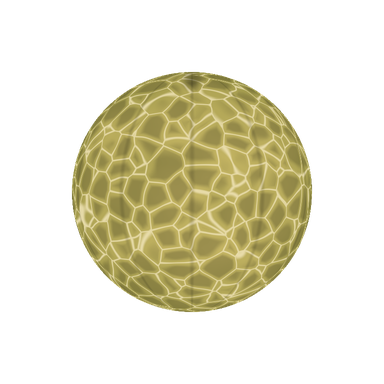
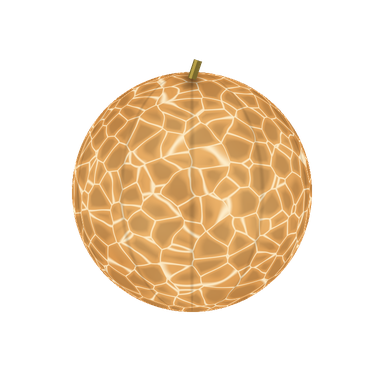
Fruit Fusion: new fruit set with one clear hue per tier
Blueberry, cherry, grape, lemon, orange, green apple, peach, dragon fruit,
pineapple, cantaloupe, watermelon; brighter skins and lighter shading.

Claude-Session: https://claude.ai/code/session_01T2SYHFgPNunqeWjZoHiYMF

Changed region(s): [[0.1875, 0.1562, 0.8125, 0.8125]]

diff --git a/games/fruit_merge/art/gen_art.py b/games/fruit_merge/art/gen_art.py
@@ -171,121 +171,101 @@ def dimple(rgb, cy=-0.93, size=0.16, depth=0.35):
 
 # --- fruits ----------------------------------------------------------------
 
-def berry():  # glossy cherry-like berry
+def blueberry():  # dusty blue with a five-point crown
     n = fbm(U * 3, V * 3, Z * 3, 3, 1)
-    rgb = mix(hexc("#8E0B24"), hexc("#E0233F"), 0.35 + 0.65 * smooth(-0.2, 1.0, -V * 0.5 + Z * 0.8) + (n - 0.5) * 0.4)
+    rgb = mix(hexc("#16257A"), hexc("#4F7FF0"), 0.3 + 0.55 * Z + (-V) * 0.15 + (n - 0.5) * 0.4)
+    bloom = fbm(U * 14, V * 14, Z * 14, 3, 2)
+    rgb = mix(rgb, hexc("#B9CBF5"), smooth(0.4, 0.8, bloom) * 0.35)
+    # crown: a dark star-shaped pit at the top
+    ang = np.arctan2(U, V + 0.9)
+    d = np.sqrt(U ** 2 + (V + 0.9) ** 2)
+    star = 0.13 + 0.06 * np.cos(ang * 5)
+    rgb = lit(rgb, -0.55 * (1 - smooth(star - 0.03, star + 0.02, d)))
+    rgb = mix(rgb, hexc("#2A1F55"), (1 - smooth(0.03, 0.07, d)))
+    return to_canvas(disc_rgba(rgb))
+
+
+def cherry():  # bright glossy red, long stem and a leaf
+    n = fbm(U * 3, V * 3, Z * 3, 3, 3)
+    rgb = mix(hexc("#9A0016"), hexc("#FF2E45"), 0.35 + 0.6 * smooth(-0.2, 1.0, -V * 0.4 + Z * 0.8) + (n - 0.5) * 0.3)
     rgb = dimple(rgb, size=0.22, depth=0.45)
     im = to_canvas(disc_rgba(rgb))
     dr = ImageDraw.Draw(im)
     stem(dr, [(0, -0.9), (0.08, -1.2), (0.22, -1.42), (0.42, -1.55)], 0.07, hexc("#5A7A2A"))
-    leaf(dr, (0.4, -1.52), (0.95, -1.42), 0.18, hexc("#3E9F45"))
+    leaf(dr, (0.4, -1.52), (0.95, -1.42), 0.18, hexc("#3EB04A"))
     return im
 
 
-def strawberry():
-    n = fbm(U * 4, V * 4, Z * 4, 3, 2)
-    rgb = mix(hexc("#B0101F"), hexc("#F0323C"), 0.4 + 0.5 * (-V * 0.4 + Z * 0.6) + (n - 0.5) * 0.5)
-    rgb = mix(rgb, hexc("#F7E3A0"), smooth(0.55, 1.0, -V) * 0.25)  # pale shoulders under the cap
-    # seeds on a staggered lat/long grid, sunk in little pockets
-    rows = (LAT + np.pi / 2) / np.pi * 9
-    ri = np.floor(rows)
-    cols = (LON / np.pi + 1) * 7 + (ri % 2) * 0.5
-    ci = np.floor(cols)
-    du = (cols - ci - 0.5) * 1.1
-    dv = rows - ri - 0.5
-    dd = np.sqrt(du ** 2 + dv ** 2) / np.maximum(Z, 0.25) ** 0.15
-    rgb = lit(rgb, -0.45 * (1 - smooth(0.12, 0.32, dd)))
-    seed = 1 - smooth(0.08, 0.14, np.sqrt((du * 1.3) ** 2 + (dv * 0.9) ** 2))
-    rgb = mix(rgb, hexc("#F6D35B"), seed * (V > -0.7))
-    im = to_canvas(disc_rgba(rgb))
-    dr = ImageDraw.Draw(im)
-    for a in np.linspace(-1.25, 1.25, 7):
-        leaf(dr, (0, -0.86), (np.sin(a) * 0.62, -0.86 + np.cos(a) * 0.2 - 0.12 * (1 - abs(a))), 0.13, hexc("#2F9E44"), False)
-    stem(dr, [(0, -0.86), (0.02, -1.12)], 0.08, hexc("#3C8A3A"))
-    return im
-
-
-def grape():
-    n = fbm(U * 2.5, V * 2.5, Z * 2.5, 4, 3)
-    rgb = mix(hexc("#3D1458"), hexc("#7B3FA8"), 0.35 + 0.5 * Z + (n - 0.5) * 0.6)
-    bloom = fbm(U * 16, V * 16, Z * 16, 3, 4)  # dusty bloom
-    rgb = mix(rgb, hexc("#B9A6D8"), smooth(0.45, 0.8, bloom) * 0.22)
+def grape():  # violet-magenta with a frosty bloom
+    n = fbm(U * 2.5, V * 2.5, Z * 2.5, 4, 4)
+    rgb = mix(hexc("#4A0E63"), hexc("#B145D6"), 0.35 + 0.5 * Z + (n - 0.5) * 0.5)
+    bloom = fbm(U * 16, V * 16, Z * 16, 3, 5)
+    rgb = mix(rgb, hexc("#E2C4F2"), smooth(0.45, 0.8, bloom) * 0.25)
     rgb = dimple(rgb, size=0.12, depth=0.3)
     im = to_canvas(disc_rgba(rgb))
     dr = ImageDraw.Draw(im)
     stem(dr, [(0, -0.92), (-0.04, -1.15), (0.05, -1.3)], 0.09, hexc("#7A5A2E"))
+    leaf(dr, (0.02, -1.2), (0.5, -1.45), 0.15, hexc("#4CAF50"))
     return im
 
 
-def lime():
-    n = fbm(U * 3, V * 3, Z * 3, 3, 5)
-    rgb = mix(hexc("#2F8A2B"), hexc("#7CCB45"), 0.3 + 0.5 * Z + (n - 0.5) * 0.5)
-    pores = fbm(U * 26, V * 26, Z * 26, 2, 6)
-    rgb = lit(rgb, (pores - 0.5) * 0.35)
-    rgb = mix(rgb, hexc("#C8E86A"), smooth(0.6, 0.8, fbm(U * 2, V * 2, Z * 2, 2, 7)) * 0.3)
-    nub = np.sqrt(U ** 2 + (V + 0.95) ** 2)
-    rgb = mix(rgb, hexc("#7A8B3A"), 1 - smooth(0.05, 0.1, nub))
-    return to_canvas(disc_rgba(rgb))
+def lemon():  # sunny yellow, pitted peel, pointed tips
+    n = fbm(U * 3, V * 3, Z * 3, 3, 6)
+    rgb = mix(hexc("#E0A800"), hexc("#FFEB55"), 0.35 + 0.55 * Z + (n - 0.5) * 0.4)
+    pores = fbm(U * 26, V * 26, Z * 26, 2, 7)
+    rgb = lit(rgb, (pores - 0.5) * 0.3)
+    rgb = mix(rgb, hexc("#C9D94A"), smooth(0.65, 0.85, fbm(U * 2, V * 2, Z * 2, 2, 8)) * 0.25)
+    im = to_canvas(disc_rgba(rgb))
+    dr = ImageDraw.Draw(im)
+    for sx in (-1, 1):  # little nubs at both ends
+        pts = [P(sx * 0.94, -0.16), P(sx * 1.1, -0.03), P(sx * 1.1, 0.03), P(sx * 0.94, 0.16)]
+        dr.polygon(pts, fill=(226, 190, 20, 255))
+        dr.polygon([P(sx * 0.95, -0.09), P(sx * 1.07, -0.02), P(sx * 0.95, 0.0)], fill=(255, 232, 90, 255))
+    leaf(dr, (0.0, -0.95), (0.45, -1.3), 0.15, hexc("#3E9F45"))
+    return im
 
 
 def orange():
-    n = fbm(U * 3, V * 3, Z * 3, 3, 8)
-    rgb = mix(hexc("#E05A00"), hexc("#FFA21F"), 0.35 + 0.5 * Z + (n - 0.5) * 0.4)
-    dimples = fbm(U * 22, V * 22, Z * 22, 2, 9)
-    rgb = lit(rgb, (dimples - 0.5) * 0.45)
-    oil = vnoise(U * 40, V * 40, Z * 40, 10)
-    rgb = lit(rgb, -0.25 * smooth(0.82, 0.95, oil))
+    n = fbm(U * 3, V * 3, Z * 3, 3, 9)
+    rgb = mix(hexc("#E85A00"), hexc("#FFAE2E"), 0.35 + 0.5 * Z + (n - 0.5) * 0.4)
+    dimples = fbm(U * 22, V * 22, Z * 22, 2, 10)
+    rgb = lit(rgb, (dimples - 0.5) * 0.4)
+    oil = vnoise(U * 40, V * 40, Z * 40, 11)
+    rgb = lit(rgb, -0.2 * smooth(0.82, 0.95, oil))
     rgb = dimple(rgb, size=0.13, depth=0.35)
     im = to_canvas(disc_rgba(rgb))
     dr = ImageDraw.Draw(im)
     for a in np.linspace(0, 2 * np.pi, 6, endpoint=False):
         leaf(dr, (0, -0.93), (np.cos(a) * 0.1, -0.93 + np.sin(a) * 0.05), 0.05, hexc("#5E8C2A"), False)
     stem(dr, [(0, -0.93), (0.03, -1.07)], 0.06, hexc("#5E8C2A"))
-    leaf(dr, (0.03, -1.03), (0.55, -1.3), 0.16, hexc("#2E8B3E"))
+    leaf(dr, (0.03, -1.03), (0.55, -1.3), 0.16, hexc("#2E9B3E"))
     return im
 
 
-def apple():
-    n = fbm(U * 2.5, V * 2.5, Z * 2.5, 4, 11)
-    streak = fbm(LON * 6, LAT * 0.8, Z * 0.3, 4, 12)  # vertical streaks along meridians
-    red = mix(hexc("#8F0E1A"), hexc("#D7262F"), 0.4 + 0.4 * Z + (streak - 0.5) * 1.4)
-    rgb = mix(red, hexc("#E9A93F"), smooth(0.6, 0.95, n * 0.6 + streak * 0.4 + V * 0.3) * 0.55)
-    dots = vnoise(U * 30, V * 30, Z * 30, 13)
-    rgb = mix(rgb, hexc("#F7E6B0"), smooth(0.9, 0.97, dots) * 0.7)
+def green_apple():  # crisp lime-green with a yellow blush and pale freckles
+    n = fbm(U * 2.5, V * 2.5, Z * 2.5, 4, 12)
+    streak = fbm(LON * 6, LAT * 0.8, Z * 0.3, 4, 13)
+    rgb = mix(hexc("#3E8E12"), hexc("#A8E33E"), 0.4 + 0.45 * Z + (streak - 0.5) * 0.3)
+    rgb = mix(rgb, hexc("#E8E35A"), smooth(0.55, 0.9, n * 0.6 + streak * 0.4 - V * 0.2) * 0.45)
+    dots = vnoise(U * 30, V * 30, Z * 30, 14)
+    rgb = mix(rgb, hexc("#F2F7C8"), smooth(0.9, 0.97, dots) * 0.7)
     rgb = dimple(rgb, size=0.26, depth=0.4)
     im = to_canvas(disc_rgba(rgb))
     dr = ImageDraw.Draw(im)
     stem(dr, [(0, -0.84), (-0.03, -1.05), (-0.1, -1.25)], 0.07)
-    leaf(dr, (-0.06, -1.1), (-0.62, -1.32), 0.17, hexc("#3A9D3F"))
+    leaf(dr, (-0.06, -1.1), (-0.62, -1.32), 0.17, hexc("#2E8B3E"))
     return im
 
 
-def pear():
-    n = fbm(U * 2.5, V * 2.5, Z * 2.5, 4, 14)
-    rgb = mix(hexc("#8FA82A"), hexc("#D9E36A"), 0.35 + 0.5 * Z + (n - 0.5) * 0.6)
-    blush = fbm(U * 1.6 + 3, V * 1.6, Z * 1.6, 3, 15)
-    rgb = mix(rgb, hexc("#E08A3C"), smooth(0.55, 0.8, blush) * 0.45)
-    russet = fbm(U * 6, V * 6, Z * 6, 3, 16)
-    rgb = mix(rgb, hexc("#9A6B33"), smooth(0.62, 0.78, russet) * 0.5 * smooth(0.1, -0.9, V))
-    specks = vnoise(U * 46, V * 46, Z * 46, 17)
-    rgb = mix(rgb, hexc("#6E5524"), smooth(0.86, 0.95, specks) * 0.8)
-    rgb = dimple(rgb, size=0.14, depth=0.3)
-    im = to_canvas(disc_rgba(rgb))
-    dr = ImageDraw.Draw(im)
-    stem(dr, [(0, -0.9), (0.05, -1.15), (0.16, -1.35)], 0.07)
-    return im
-
-
-def peach():
-    n = fbm(U * 2, V * 2, Z * 2, 4, 18)
-    base = mix(hexc("#F6A34A"), hexc("#FFD08A"), 0.3 + 0.5 * Z + (n - 0.5) * 0.4)
-    blush_t = smooth(0.35, 0.75, fbm(U * 1.4 - 2, V * 1.4, Z * 1.4, 4, 19) + U * 0.35 - V * 0.1)
-    rgb = mix(base, hexc("#E8434F"), blush_t * 0.85)
-    fuzz = vnoise(U * 70, V * 70, Z * 70, 20)
-    rgb = lit(rgb, (fuzz - 0.5) * 0.12)
+def peach():  # soft apricot with a rosy blush and a crease
+    n = fbm(U * 2, V * 2, Z * 2, 4, 15)
+    base = mix(hexc("#FF9A5A"), hexc("#FFD9A0"), 0.3 + 0.5 * Z + (n - 0.5) * 0.4)
+    blush_t = smooth(0.35, 0.75, fbm(U * 1.4 - 2, V * 1.4, Z * 1.4, 4, 16) + U * 0.35 - V * 0.1)
+    rgb = mix(base, hexc("#F2506A"), blush_t * 0.75)
+    fuzz = vnoise(U * 70, V * 70, Z * 70, 17)
+    rgb = lit(rgb, (fuzz - 0.5) * 0.1)
     crease_x = 0.32 * np.sqrt(np.clip(1 - V * V, 0, 1)) + 0.04 * np.sin(V * 3)
-    cd = np.abs(U - crease_x)
-    rgb = lit(rgb, -0.16 * (1 - smooth(0.0, 0.09, cd)))
+    rgb = lit(rgb, -0.16 * (1 - smooth(0.0, 0.09, np.abs(U - crease_x))))
     rgb = lit(rgb, 0.12 * (1 - smooth(0.04, 0.12, np.abs(U - crease_x - 0.06))))
     rgb = dimple(rgb, size=0.15, depth=0.35)
     im = to_canvas(disc_rgba(rgb))
@@ -296,59 +276,88 @@ def peach():
     return im
 
 
+def dragonfruit():  # hot pink with green-tipped flame scales
+    n = fbm(U * 2.5, V * 2.5, Z * 2.5, 4, 18)
+    rgb = mix(hexc("#B0105A"), hexc("#FF4FA8"), 0.35 + 0.55 * Z + (n - 0.5) * 0.4)
+    rows = (LAT + np.pi / 2) / np.pi * 5
+    ri = np.floor(rows)
+    cols = (LON / np.pi + 1) * 4 + (ri % 2) * 0.5
+    du = cols - np.floor(cols) - 0.5
+    dv = rows - ri - 0.5
+    scale = np.sqrt((du * 1.2) ** 2 + (dv * 1.6 + du * du * 1.5) ** 2)
+    rgb = lit(rgb, 0.22 * (1 - smooth(0.1, 0.42, scale)) - 0.25 * smooth(0.42, 0.55, scale))
+    tip = np.sqrt((du * 2.4) ** 2 + ((dv - 0.32) * 3.0) ** 2)
+    rgb = mix(rgb, hexc("#7BCB3A"), (1 - smooth(0.25, 0.5, tip)) * 0.9)
+    im = to_canvas(disc_rgba(rgb))
+    dr = ImageDraw.Draw(im)
+    for k, a in enumerate(np.linspace(-2.5, 2.5, 8)):  # fins sticking out around the fruit
+        bx, by = np.sin(a) * 0.9, -np.cos(a) * 0.9
+        tx, ty = np.sin(a + 0.3) * 1.15, -np.cos(a + 0.3) * 1.15
+        leaf(dr, (bx, by), (tx, ty), 0.11, hexc("#FF5FB0"), False)
+        mx, my = bx + (tx - bx) * 0.55, by + (ty - by) * 0.55
+        leaf(dr, (mx, my), (tx, ty), 0.09, hexc("#6CC23A"), False)
+    return im
+
+
 def pineapple():
-    a = (LON / np.pi) * 7 + (LAT / np.pi) * 9   # two diagonal families on the sphere
+    a = (LON / np.pi) * 7 + (LAT / np.pi) * 9
     b = (LON / np.pi) * 7 - (LAT / np.pi) * 9
     fa, fb = a - np.floor(a) - 0.5, b - np.floor(b) - 0.5
-    cell = np.maximum(np.abs(fa), np.abs(fb))   # 0 at a scale's centre, 0.5 on its edge
-    n = fbm(U * 3, V * 3, Z * 3, 3, 21)
-    rgb = mix(hexc("#C27A08"), hexc("#FFC93C"), 0.3 + 0.55 * Z + (n - 0.5) * 0.5)
-    rgb = lit(rgb, 0.25 * (1 - smooth(0.05, 0.35, cell)) - 0.4 * smooth(0.38, 0.5, cell))
-    rgb = mix(rgb, hexc("#6E8F2A"), smooth(0.43, 0.5, cell) * 0.5)
+    cell = np.maximum(np.abs(fa), np.abs(fb))
+    n = fbm(U * 3, V * 3, Z * 3, 3, 19)
+    rgb = mix(hexc("#D88A00"), hexc("#FFD447"), 0.3 + 0.55 * Z + (n - 0.5) * 0.5)
+    rgb = lit(rgb, 0.25 * (1 - smooth(0.05, 0.35, cell)) - 0.35 * smooth(0.38, 0.5, cell))
+    rgb = mix(rgb, hexc("#7A9B2A"), smooth(0.43, 0.5, cell) * 0.45)
     eye = np.sqrt(fa ** 2 + (fb + 0.12) ** 2)
-    rgb = mix(rgb, hexc("#6B3E12"), (1 - smooth(0.05, 0.11, eye)) * 0.85)
+    rgb = mix(rgb, hexc("#6B3E12"), (1 - smooth(0.05, 0.11, eye)) * 0.8)
     im = to_canvas(disc_rgba(rgb))
     dr = ImageDraw.Draw(im)
     crown = [(-0.55, -1.25, 0.11), (0.55, -1.25, 0.11), (-0.35, -1.5, 0.12), (0.38, -1.52, 0.12),
              (-0.12, -1.62, 0.12), (0.14, -1.6, 0.12), (0.0, -1.66, 0.11)]
     for i, (tx, ty, w) in enumerate(crown):
-        leaf(dr, (tx * 0.15, -0.88), (tx, ty), w, hexc("#2F8A4A") if i % 2 else hexc("#3FA35A"), False)
+        leaf(dr, (tx * 0.15, -0.88), (tx, ty), w, hexc("#2F9A4A") if i % 2 else hexc("#45B860"), False)
     return im
 
 
-def cantaloupe():
-    n = fbm(U * 2, V * 2, Z * 2, 4, 22)
-    rgb = mix(hexc("#8C8A3E"), hexc("#C9B866"), 0.3 + 0.5 * Z + (n - 0.5) * 0.6)
+def cantaloupe():  # warm apricot rind under a cream net
+    n = fbm(U * 2, V * 2, Z * 2, 4, 20)
+    rgb = mix(hexc("#C9782E"), hexc("#F5C27A"), 0.3 + 0.5 * Z + (n - 0.5) * 0.5)
     s = 5.0
-    wx = U * s + fbm(U * 4, V * 4, Z * 4, 2, 23) * 0.8
-    f1, f2 = worley(wx, V * s, Z * s, 24)
+    wx = U * s + fbm(U * 4, V * 4, Z * 4, 2, 21) * 0.8
+    f1, f2 = worley(wx, V * s, Z * s, 22)
     vein = 1 - smooth(0.0, 0.08, f2 - f1)
-    rgb = lit(rgb, -0.2 * smooth(0.1, 0.4, f2 - f1))
-    rgb = mix(rgb, hexc("#EFE3B6"), vein * 0.85)
+    rgb = lit(rgb, -0.15 * smooth(0.1, 0.4, f2 - f1))
+    rgb = mix(rgb, hexc("#FFF2D2"), vein * 0.9)
     ribs = np.abs(np.sin(LON * 5))
     rgb = lit(rgb, -0.12 * (1 - smooth(0.0, 0.18, ribs)))
     rgb = dimple(rgb, size=0.12, depth=0.35)
-    return to_canvas(disc_rgba(rgb))
+    im = to_canvas(disc_rgba(rgb))
+    dr = ImageDraw.Draw(im)
+    stem(dr, [(0, -0.95), (0.05, -1.1)], 0.07, hexc("#7A6A2E"))
+    return im
 
 
-def melon():
-    n = fbm(U * 2, V * 2, Z * 2, 4, 25)
-    rgb = mix(hexc("#3C9A3A"), hexc("#7FCB5A"), 0.3 + 0.5 * Z + (n - 0.5) * 0.5)
-    wob = fbm(LON * 3, LAT * 8, Z, 4, 26)
+def watermelon():
+    n = fbm(U * 2, V * 2, Z * 2, 4, 23)
+    rgb = mix(hexc("#3FAE3A"), hexc("#94E06A"), 0.3 + 0.5 * Z + (n - 0.5) * 0.5)
+    wob = fbm(LON * 3, LAT * 8, Z, 4, 24)
     stripe = np.sin(LON * 8 + (wob - 0.5) * 3.2)
-    edge = (fbm(LON * 9, LAT * 22, Z, 3, 27) - 0.5) * 0.5
+    edge = (fbm(LON * 9, LAT * 22, Z, 3, 25) - 0.5) * 0.5
     dark = smooth(0.15 + edge, 0.35 + edge, stripe)
-    rgb = mix(rgb, hexc("#0E4A22"), dark * 0.92)
-    speck = fbm(U * 18, V * 18, Z * 18, 2, 28)
-    rgb = lit(rgb, (speck - 0.5) * 0.18)
+    rgb = mix(rgb, hexc("#0C5A24"), dark * 0.92)
+    speck = fbm(U * 18, V * 18, Z * 18, 2, 26)
+    rgb = lit(rgb, (speck - 0.5) * 0.16)
     rgb = dimple(rgb, size=0.1, depth=0.4)
     im = to_canvas(disc_rgba(rgb))
     dr = ImageDraw.Draw(im)
     stem(dr, [(0, -0.95), (0.06, -1.12), (0.18, -1.2)], 0.06, hexc("#5E7A2A"))
+    leaf(dr, (0.12, -1.16), (0.55, -1.38), 0.14, hexc("#3E9F45"))
     return im
 
 
-FRUITS = [berry, strawberry, grape, lime, orange, apple, pear, peach, pineapple, cantaloupe, melon]
+# Distinct hue per tier, smallest first: blue, red, violet, yellow, orange, green, apricot, pink,
+# gold, tan, striped green. Keep game.gd COLORS (burst particles) in step with these.
+FRUITS = [blueberry, cherry, grape, lemon, orange, green_apple, peach, dragonfruit, pineapple, cantaloupe, watermelon]
 
 
 # --- light overlays --------------------------------------------------------
@@ -357,14 +366,14 @@ def light_layers():
     L = np.array([-0.45, -0.65, 0.62])
     L = L / np.linalg.norm(L)
     ndl = np.clip(U * L[0] + V * L[1] + Z * L[2], 0, 1)
-    shade = (1 - (0.28 + 0.72 * ndl)) * 0.62 + (1 - Z) ** 3 * 0.25
-    shade += smooth(0.2, 1.0, V) * 0.12  # contact occlusion at the bottom
+    shade = (1 - (0.28 + 0.72 * ndl)) * 0.46 + (1 - Z) ** 3 * 0.2
+    shade += smooth(0.2, 1.0, V) * 0.1  # contact occlusion at the bottom
     s = np.zeros((W, W, 4))
     s[..., 3] = np.clip(shade, 0, 0.85) * INSIDE
     H = L + np.array([0, 0, 1.0])
     H = H / np.linalg.norm(H)
     ndh = np.clip(U * H[0] + V * H[1] + Z * H[2], 0, 1)
-    spec = ndh ** 70 * 0.75 + ndh ** 10 * 0.2
+    spec = ndh ** 70 * 0.85 + ndh ** 10 * 0.24
     rim = (1 - Z) ** 4 * np.clip(U * 0.5 + V * 0.6, 0, 1) * 0.5  # cool bounce light, bottom right
     p = np.zeros((W, W, 4))
     p[..., :3] = 1.0
